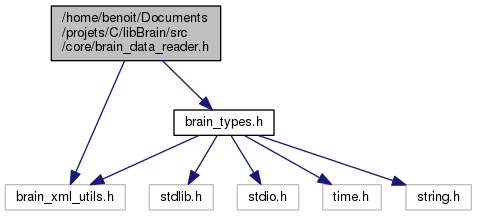
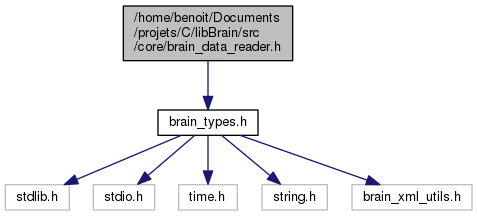
minimizing API

diff --git a/docs/brain__data__reader_8h.html b/docs/brain__data__reader_8h.html
@@ -114,7 +114,7 @@ Include dependency graph for brain_data_reader.h:</div>
 <div class="dyncontent">
 <div class="center"><img src="brain__data__reader_8h__incl.png" border="0" usemap="#_2home_2benoit_2_documents_2projets_2_c_2lib_brain_2src_2core_2brain__data__reader_8h" alt=""/></div>
 <map name="_2home_2benoit_2_documents_2projets_2_c_2lib_brain_2src_2core_2brain__data__reader_8h" id="_2home_2benoit_2_documents_2projets_2_c_2lib_brain_2src_2core_2brain__data__reader_8h">
-<area shape="rect" id="node3" href="brain__types_8h.html" title="Define all types. " alt="" coords="174,109,274,136"/></map>
+<area shape="rect" id="node2" href="brain__types_8h.html" title="Define all types. " alt="" coords="158,109,258,136"/></map>
 </div>
 </div><table class="memberdecls">
 <tr class="heading"><td colspan="2"><h2 class="groupheader"><a name="func-members"></a>
@@ -394,7 +394,7 @@ Here is the caller graph for this function:</div>
 <div id="nav-path" class="navpath"><!-- id is needed for treeview function! -->
   <ul>
     <li class="navelem"><a class="el" href="dir_68267d1309a1af8e8297ef4c3efbcdba.html">src</a></li><li class="navelem"><a class="el" href="dir_aebb8dcc11953d78e620bbef0b9e2183.html">core</a></li><li class="navelem"><a class="el" href="brain__data__reader_8h.html">brain_data_reader.h</a></li>
-    <li class="footer">Generated on Sat Dec 17 2016 18:32:29 for libBrain by
+    <li class="footer">Generated on Sat Dec 17 2016 18:50:31 for libBrain by
     <a href="http://www.doxygen.org/index.html">
     <img class="footer" src="doxygen.png" alt="doxygen"/></a> 1.8.8 </li>
   </ul>

diff --git a/docs/brain__network__builder_8h.html b/docs/brain__network__builder_8h.html
@@ -434,7 +434,7 @@ Here is the call graph for this function:</div>
 <div id="nav-path" class="navpath"><!-- id is needed for treeview function! -->
   <ul>
     <li class="navelem"><a class="el" href="dir_68267d1309a1af8e8297ef4c3efbcdba.html">src</a></li><li class="navelem"><a class="el" href="dir_aebb8dcc11953d78e620bbef0b9e2183.html">core</a></li><li class="navelem"><a class="el" href="brain__network__builder_8h.html">brain_network_builder.h</a></li>
-    <li class="footer">Generated on Sat Dec 17 2016 18:32:29 for libBrain by
+    <li class="footer">Generated on Sat Dec 17 2016 18:50:31 for libBrain by
     <a href="http://www.doxygen.org/index.html">
     <img class="footer" src="doxygen.png" alt="doxygen"/></a> 1.8.8 </li>
   </ul>

diff --git a/docs/brain__neuron__builder_8h.html b/docs/brain__neuron__builder_8h.html
@@ -418,7 +418,7 @@ Here is the caller graph for this function:</div>
 <div id="nav-path" class="navpath"><!-- id is needed for treeview function! -->
   <ul>
     <li class="navelem"><a class="el" href="dir_68267d1309a1af8e8297ef4c3efbcdba.html">src</a></li><li class="navelem"><a class="el" href="dir_aebb8dcc11953d78e620bbef0b9e2183.html">core</a></li><li class="navelem"><a class="el" href="brain__neuron__builder_8h.html">brain_neuron_builder.h</a></li>
-    <li class="footer">Generated on Sat Dec 17 2016 18:32:29 for libBrain by
+    <li class="footer">Generated on Sat Dec 17 2016 18:50:31 for libBrain by
     <a href="http://www.doxygen.org/index.html">
     <img class="footer" src="doxygen.png" alt="doxygen"/></a> 1.8.8 </li>
   </ul>

diff --git a/docs/brain__layer__builder_8h.html b/docs/brain__layer__builder_8h.html
@@ -437,7 +437,7 @@ Here is the caller graph for this function:</div>
 <div id="nav-path" class="navpath"><!-- id is needed for treeview function! -->
   <ul>
     <li class="navelem"><a class="el" href="dir_68267d1309a1af8e8297ef4c3efbcdba.html">src</a></li><li class="navelem"><a class="el" href="dir_aebb8dcc11953d78e620bbef0b9e2183.html">core</a></li><li class="navelem"><a class="el" href="brain__layer__builder_8h.html">brain_layer_builder.h</a></li>
-    <li class="footer">Generated on Sat Dec 17 2016 18:32:29 for libBrain by
+    <li class="footer">Generated on Sat Dec 17 2016 18:50:31 for libBrain by
     <a href="http://www.doxygen.org/index.html">
     <img class="footer" src="doxygen.png" alt="doxygen"/></a> 1.8.8 </li>
   </ul>

diff --git a/docs/brain__types_8h.html b/docs/brain__types_8h.html
@@ -317,7 +317,7 @@ Enumerations</h2></td></tr>
 <div id="nav-path" class="navpath"><!-- id is needed for treeview function! -->
   <ul>
     <li class="navelem"><a class="el" href="dir_68267d1309a1af8e8297ef4c3efbcdba.html">src</a></li><li class="navelem"><a class="el" href="dir_aebb8dcc11953d78e620bbef0b9e2183.html">core</a></li><li class="navelem"><a class="el" href="brain__types_8h.html">brain_types.h</a></li>
-    <li class="footer">Generated on Sat Dec 17 2016 18:32:30 for libBrain by
+    <li class="footer">Generated on Sat Dec 17 2016 18:50:31 for libBrain by
     <a href="http://www.doxygen.org/index.html">
     <img class="footer" src="doxygen.png" alt="doxygen"/></a> 1.8.8 </li>
   </ul>

diff --git a/docs/dir_aebb8dcc11953d78e620bbef0b9e2183.html b/docs/dir_aebb8dcc11953d78e620bbef0b9e2183.html
@@ -146,7 +146,7 @@ Files</h2></td></tr>
 <div id="nav-path" class="navpath"><!-- id is needed for treeview function! -->
   <ul>
     <li class="navelem"><a class="el" href="dir_68267d1309a1af8e8297ef4c3efbcdba.html">src</a></li><li class="navelem"><a class="el" href="dir_aebb8dcc11953d78e620bbef0b9e2183.html">core</a></li>
-    <li class="footer">Generated on Sat Dec 17 2016 18:32:30 for libBrain by
+    <li class="footer">Generated on Sat Dec 17 2016 18:50:31 for libBrain by
     <a href="http://www.doxygen.org/index.html">
     <img class="footer" src="doxygen.png" alt="doxygen"/></a> 1.8.8 </li>
   </ul>

diff --git a/docs/dir_68267d1309a1af8e8297ef4c3efbcdba.html b/docs/dir_68267d1309a1af8e8297ef4c3efbcdba.html
@@ -117,7 +117,7 @@ Directories</h2></td></tr>
 <div id="nav-path" class="navpath"><!-- id is needed for treeview function! -->
   <ul>
     <li class="navelem"><a class="el" href="dir_68267d1309a1af8e8297ef4c3efbcdba.html">src</a></li>
-    <li class="footer">Generated on Sat Dec 17 2016 18:32:30 for libBrain by
+    <li class="footer">Generated on Sat Dec 17 2016 18:50:31 for libBrain by
     <a href="http://www.doxygen.org/index.html">
     <img class="footer" src="doxygen.png" alt="doxygen"/></a> 1.8.8 </li>
   </ul>

diff --git a/docs/struct_network.html b/docs/struct_network.html
@@ -239,7 +239,7 @@ Data Fields</h2></td></tr>
 <div id="nav-path" class="navpath"><!-- id is needed for treeview function! -->
   <ul>
     <li class="navelem"><a class="el" href="struct_network.html">Network</a></li>
-    <li class="footer">Generated on Sat Dec 17 2016 18:32:30 for libBrain by
+    <li class="footer">Generated on Sat Dec 17 2016 18:50:31 for libBrain by
     <a href="http://www.doxygen.org/index.html">
     <img class="footer" src="doxygen.png" alt="doxygen"/></a> 1.8.8 </li>
   </ul>

diff --git a/docs/graph_legend.html b/docs/graph_legend.html
@@ -166,7 +166,7 @@ A yellow dashed arrow denotes a relation between a template instance and the tem
 <!-- start footer part -->
 <div id="nav-path" class="navpath"><!-- id is needed for treeview function! -->
   <ul>
-    <li class="footer">Generated on Sat Dec 17 2016 18:32:30 for libBrain by
+    <li class="footer">Generated on Sat Dec 17 2016 18:50:31 for libBrain by
     <a href="http://www.doxygen.org/index.html">
     <img class="footer" src="doxygen.png" alt="doxygen"/></a> 1.8.8 </li>
   </ul>

diff --git a/docs/struct_neuron.html b/docs/struct_neuron.html
@@ -277,7 +277,7 @@ Data Fields</h2></td></tr>
 <div id="nav-path" class="navpath"><!-- id is needed for treeview function! -->
   <ul>
     <li class="navelem"><a class="el" href="struct_neuron.html">Neuron</a></li>
-    <li class="footer">Generated on Sat Dec 17 2016 18:32:30 for libBrain by
+    <li class="footer">Generated on Sat Dec 17 2016 18:50:31 for libBrain by
     <a href="http://www.doxygen.org/index.html">
     <img class="footer" src="doxygen.png" alt="doxygen"/></a> 1.8.8 </li>
   </ul>

diff --git a/docs/struct_layer.html b/docs/struct_layer.html
@@ -209,7 +209,7 @@ Data Fields</h2></td></tr>
 <div id="nav-path" class="navpath"><!-- id is needed for treeview function! -->
   <ul>
     <li class="navelem"><a class="el" href="struct_layer.html">Layer</a></li>
-    <li class="footer">Generated on Sat Dec 17 2016 18:32:30 for libBrain by
+    <li class="footer">Generated on Sat Dec 17 2016 18:50:31 for libBrain by
     <a href="http://www.doxygen.org/index.html">
     <img class="footer" src="doxygen.png" alt="doxygen"/></a> 1.8.8 </li>
   </ul>

diff --git a/docs/struct_data.html b/docs/struct_data.html
@@ -232,7 +232,7 @@ Data Fields</h2></td></tr>
 <div id="nav-path" class="navpath"><!-- id is needed for treeview function! -->
   <ul>
     <li class="navelem"><a class="el" href="struct_data.html">Data</a></li>
-    <li class="footer">Generated on Sat Dec 17 2016 18:32:30 for libBrain by
+    <li class="footer">Generated on Sat Dec 17 2016 18:50:31 for libBrain by
     <a href="http://www.doxygen.org/index.html">
     <img class="footer" src="doxygen.png" alt="doxygen"/></a> 1.8.8 </li>
   </ul>
